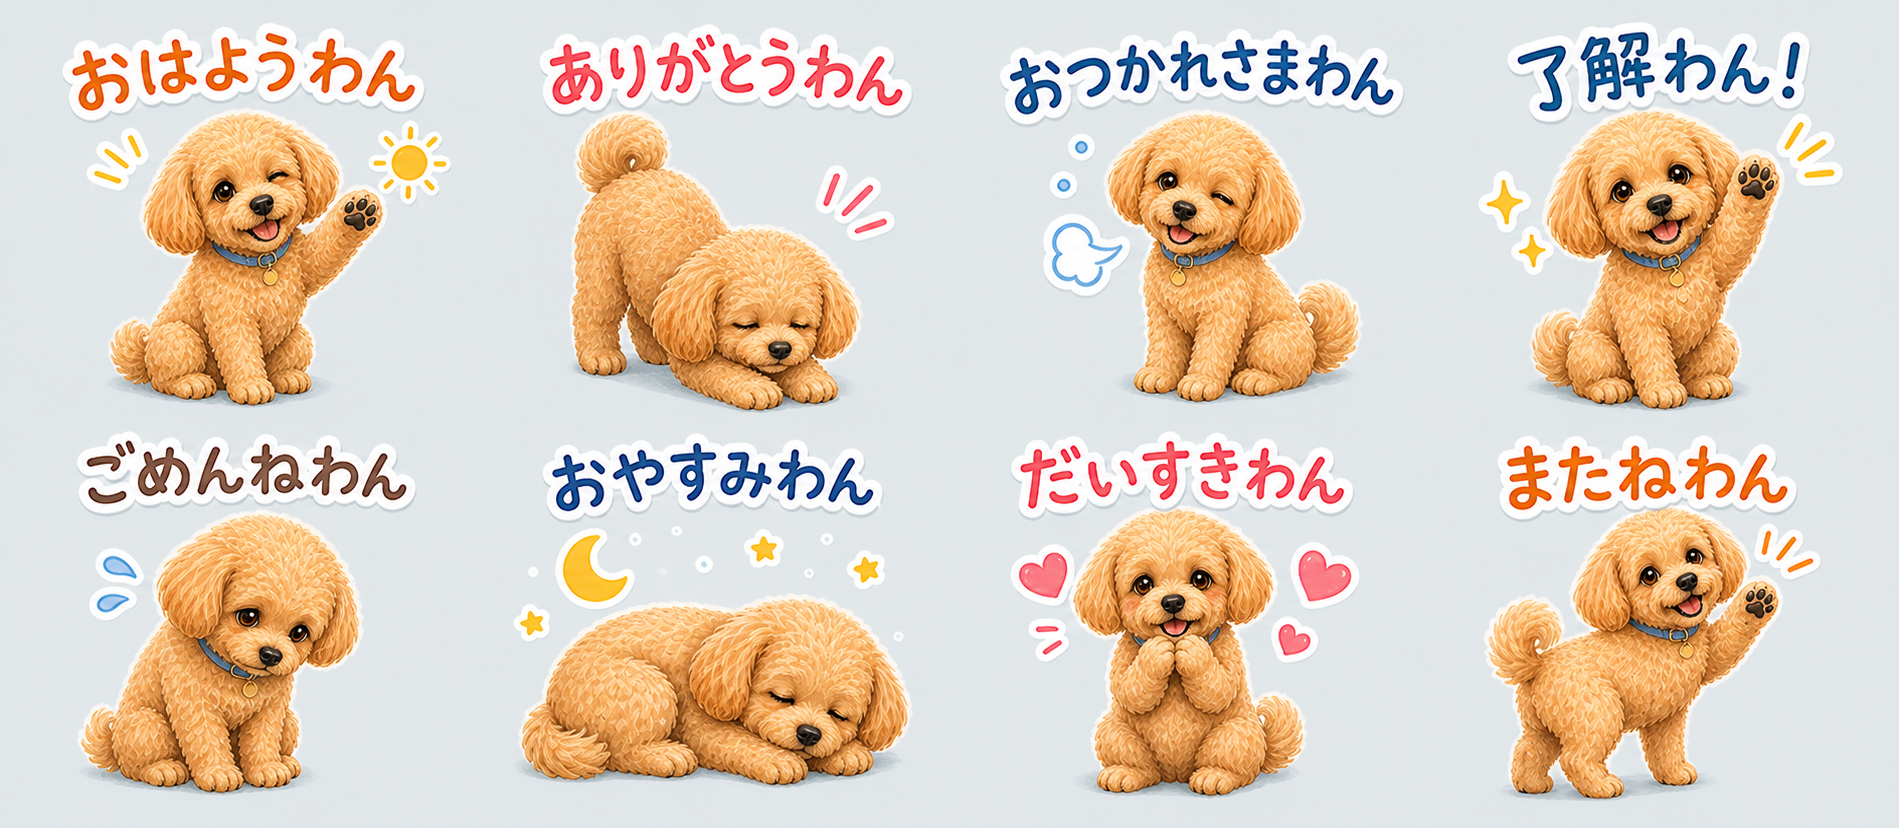
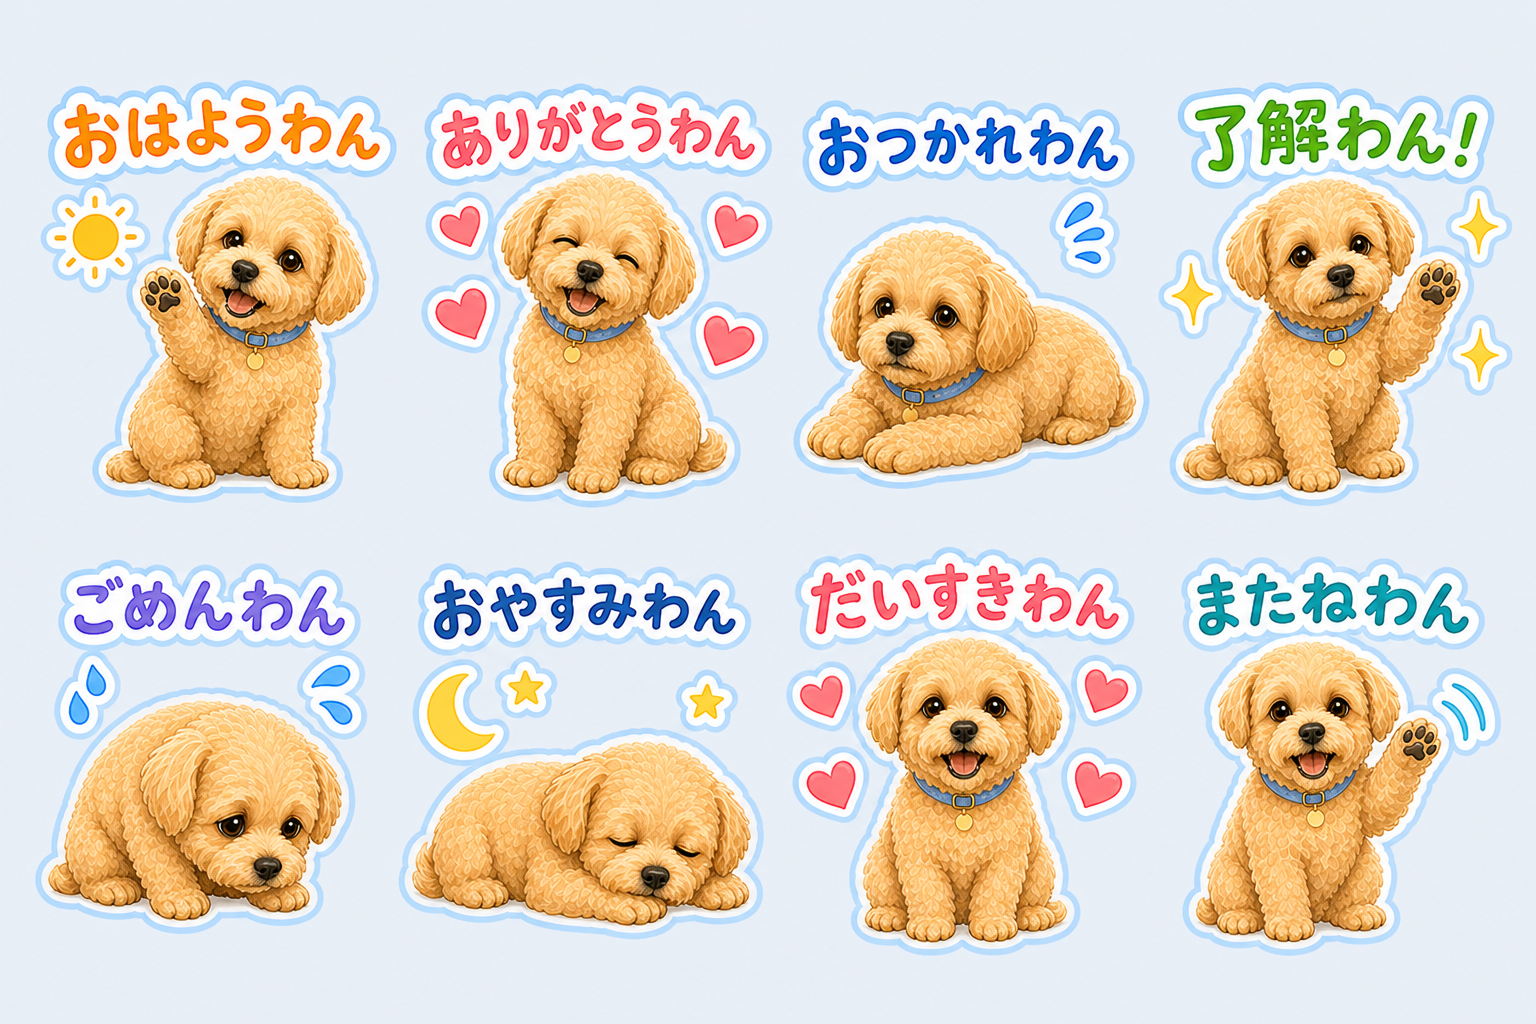
Replace homepage Moka sticker preview

diff --git a/app/page.tsx b/app/page.tsx
@@ -484,8 +484,8 @@ export default async function Home() {
               <Image
                 src="/film/moka/line-stickers-preview-v2.png"
                 alt="モカのキャラクターから作った、わん付きLINEスタンプ8種類"
-                width={1899}
-                height={828}
+                width={1536}
+                height={1024}
                 sizes="(max-width: 640px) calc(100vw - 36px), 1120px"
               />
             </div>
